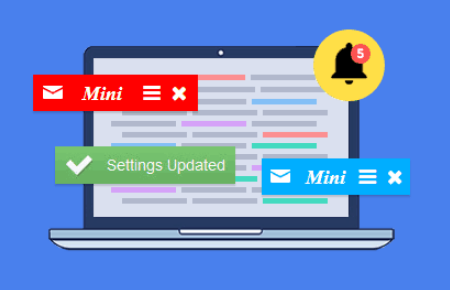
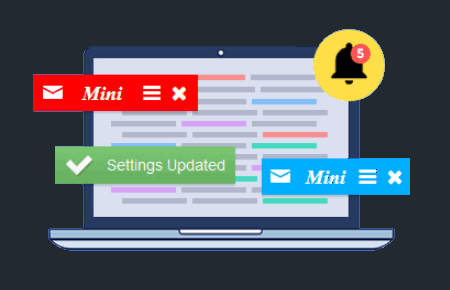
update twitter card image

diff --git a/dist/docs.d44b716632d6de121a51.css b/dist/docs.d44b716632d6de121a51.css
@@ -1,0 +1,1 @@
+/*! normalize.css v8.0.1 | MIT License | github.com/necolas/normalize.css */html{line-height:1.15;-webkit-text-size-adjust:100%}body{margin:0}main{display:block}h1{font-size:2em;margin:.67em 0}pre{font-family:monospace,monospace;font-size:1em}a{background-color:transparent}strong{font-weight:bolder}code{font-family:monospace,monospace;font-size:1em}sup{font-size:75%;line-height:0;position:relative;vertical-align:baseline}sup{top:-.5em}img{border-style:none}[type=button],[type=reset],[type=submit]{-webkit-appearance:button}[type=button]::-moz-focus-inner,[type=reset]::-moz-focus-inner,[type=submit]::-moz-focus-inner{border-style:none;padding:0}[type=button]:-moz-focusring,[type=reset]:-moz-focusring,[type=submit]:-moz-focusring{outline:1px dotted ButtonText}[type=checkbox],[type=radio]{box-sizing:border-box;padding:0}[type=number]::-webkit-inner-spin-button,[type=number]::-webkit-outer-spin-button{height:auto}[type=search]{-webkit-appearance:textfield;outline-offset:-2px}[type=search]::-webkit-search-decoration{-webkit-appearance:none}::-webkit-file-upload-button{-webkit-appearance:button;font:inherit}[hidden]{display:none}blockquote,figure,h1,h2,p,pre{margin:0}ul{margin:0;padding:0}ul{list-style:none}html{font-family:system-ui,-apple-system,BlinkMacSystemFont,Segoe UI,Roboto,Helvetica Neue,Arial,Noto Sans,sans-serif,Apple Color Emoji,Segoe UI Emoji,Segoe UI Symbol,Noto Color Emoji;line-height:1.5}*,:after,:before{box-sizing:border-box;border:0 solid #dae1e7}img{border-style:solid}[role=button]{cursor:pointer}h1,h2{font-size:inherit;font-weight:inherit}a{color:inherit;text-decoration:inherit}code,pre{font-family:Menlo,Monaco,Consolas,Liberation Mono,Courier New,monospace}img,svg{display:block;vertical-align:middle}img{max-width:100%;height:auto}.space-x-2>:not(template)~:not(template){--space-x-reverse:0;margin-right:calc(0.5rem*var(--space-x-reverse));margin-left:calc(0.5rem*(1 - var(--space-x-reverse)))}.space-y-3>:not(template)~:not(template){--space-y-reverse:0;margin-top:calc(0.75rem*(1 - var(--space-y-reverse)));margin-bottom:calc(0.75rem*var(--space-y-reverse))}.bg-black{--bg-opacity:1;background-color:#22292f;background-color:rgba(34,41,47,var(--bg-opacity))}.bg-white{--bg-opacity:1;background-color:#fff;background-color:rgba(255,255,255,var(--bg-opacity))}.bg-red{--bg-opacity:1;background-color:#307378;background-color:rgba(48,115,120,var(--bg-opacity))}.bg-grey-lighter{--bg-opacity:1;background-color:#f1f5f8;background-color:rgba(241,245,248,var(--bg-opacity))}.bg-grey-lightest{--bg-opacity:1;background-color:#f8fafc;background-color:rgba(248,250,252,var(--bg-opacity))}.border-transparent{border-color:transparent}.border-grey-light{--border-opacity:1;border-color:#dae1e7;border-color:rgba(218,225,231,var(--border-opacity))}.rounded{border-radius:.25rem}.rounded-full{border-radius:9999px}.rounded-t-none{border-top-left-radius:0;border-top-right-radius:0}.rounded-br{border-bottom-right-radius:.25rem}.border-2{border-width:2px}.border{border-width:1px}.border-t{border-top-width:1px}.border-b{border-bottom-width:1px}.block{display:block}.inline-block{display:inline-block}.inline{display:inline}.flex{display:flex}.hidden{display:none}.flex-row{flex-direction:row}.flex-col{flex-direction:column}.items-start{align-items:flex-start}.items-center{align-items:center}.justify-center{justify-content:center}.flex-none{flex:none}.flex-grow{flex-grow:1}.flex-shrink-0{flex-shrink:0}.font-heading{font-family:Varela Round,sans-serif}.font-normal{font-weight:400}.h-5{height:1.25rem}.h-6{height:1.5rem}.h-8{height:2rem}.h-10{height:2.5rem}.h-12{height:3rem}.h-16{height:4rem}.h-20{height:5rem}.h-full{height:100%}.text-xs{font-size:.75rem}.text-sm{font-size:.875rem}.text-lg{font-size:1.125rem}.text-xl{font-size:1.25rem}.text-3xl{font-size:1.875rem}.text-4xl{font-size:2.25rem}.leading-none{line-height:1}.leading-tight{line-height:1.25}.leading-normal{line-height:1.5}.leading-relaxed{line-height:1.625}.leading-loose{line-height:2}.leading-very-loose{line-height:3.5}.list-none{list-style-type:none}.my-5{margin-top:1.25rem;margin-bottom:1.25rem}.my-10{margin-top:4rem;margin-bottom:4rem}.mx-auto{margin-left:auto;margin-right:auto}.-mx-8{margin-left:-2rem;margin-right:-2rem}.mt-0{margin-top:0}.mt-1{margin-top:.25rem}.mr-1{margin-right:.25rem}.mb-1{margin-bottom:.25rem}.mr-2{margin-right:.5rem}.mb-2{margin-bottom:.5rem}.mr-3{margin-right:.75rem}.mt-4{margin-top:1rem}.mr-4{margin-right:1rem}.mb-4{margin-bottom:1rem}.mt-6{margin-top:1.5rem}.mb-6{margin-bottom:1.5rem}.mb-8{margin-bottom:2rem}.mb-10{margin-bottom:4rem}.max-w-xs{max-width:20rem}.max-w-sm{max-width:30rem}.max-w-md{max-width:40rem}.max-w-lg{max-width:44rem}.max-w-xl{max-width:60rem}.max-w-2xl{max-width:70rem}.min-h-screen{min-height:100vh}.min-w-full{min-width:100%}.opacity-50{opacity:.5}.overflow-hidden{overflow:hidden}.p-0{padding:0}.p-1{padding:.25rem}.p-2{padding:.5rem}.p-4{padding:1rem}.py-1{padding-top:.25rem;padding-bottom:.25rem}.py-2{padding-top:.5rem;padding-bottom:.5rem}.px-2{padding-left:.5rem;padding-right:.5rem}.py-4{padding-top:1rem;padding-bottom:1rem}.px-4{padding-left:1rem;padding-right:1rem}.px-8{padding-left:2rem;padding-right:2rem}.pl-0{padding-left:0}.pt-1{padding-top:.25rem}.pr-2{padding-right:.5rem}.pt-4{padding-top:1rem}.pt-10{padding-top:3rem}.pb-10{padding-bottom:3rem}.pt-12{padding-top:4rem}.fixed{position:fixed}.relative{position:relative}.top-0{top:0}.shadow{box-shadow:0 2px 4px 0 rgba(0,0,0,.1)}.fill-current{fill:currentColor}.text-center{text-align:center}.text-black{--text-opacity:1;color:#22292f;color:rgba(34,41,47,var(--text-opacity))}.text-white{--text-opacity:1;color:#fff;color:rgba(255,255,255,var(--text-opacity))}.text-red{--text-opacity:1;color:#307378;color:rgba(48,115,120,var(--text-opacity))}.text-grey-darkest{--text-opacity:1;color:#3d4852;color:rgba(61,72,82,var(--text-opacity))}.text-grey-darker{--text-opacity:1;color:#606f7b;color:rgba(96,111,123,var(--text-opacity))}.text-grey-dark{--text-opacity:1;color:#8795a1;color:rgba(135,149,161,var(--text-opacity))}.text-grey{--text-opacity:1;color:#b8c2cc;color:rgba(184,194,204,var(--text-opacity))}.hover\:text-grey:hover{--text-opacity:1;color:#b8c2cc;color:rgba(184,194,204,var(--text-opacity))}.uppercase{text-transform:uppercase}.tracking-wide{letter-spacing:.05em}.align-middle{vertical-align:middle}.w-5{width:1.25rem}.w-6{width:1.5rem}.w-8{width:2rem}.w-10{width:2.5rem}.w-12{width:3rem}.w-20{width:5rem}.w-full{width:100%}.w-screen{width:100vw}.z-10{z-index:10}@-webkit-keyframes spin{to{transform:rotate(1turn)}}@keyframes spin{to{transform:rotate(1turn)}}@-webkit-keyframes ping{to{transform:scale(2);opacity:0}}@keyframes ping{75%,to{transform:scale(2);opacity:0}}@keyframes pulse{50%{opacity:.5}}@-webkit-keyframes bounce{to{transform:translateY(-25%);-webkit-animation-timing-function:cubic-bezier(.8,0,1,1);animation-timing-function:cubic-bezier(.8,0,1,1)}}@keyframes bounce{0%,to{transform:translateY(-25%);-webkit-animation-timing-function:cubic-bezier(.8,0,1,1);animation-timing-function:cubic-bezier(.8,0,1,1)}50%{transform:none;-webkit-animation-timing-function:cubic-bezier(0,0,.2,1);animation-timing-function:cubic-bezier(0,0,.2,1)}}img{display:inline;vertical-align:initial}.cli-prefixed:before{content:"#"}.text-shadow{text-shadow:0 1px 1px hsla(0,0%,100%,.8)}.menu-closed\:shown{display:none}.menu-closed .menu-closed\:shown{display:inline}.menu-closed .menu-closed\:hidden{display:none}body{--text-opacity:1;color:#3d4852;color:rgba(61,72,82,var(--text-opacity));font-family:Raleway,sans-serif;font-size:15px;font-weight:400;font-stretch:100%;-webkit-font-smoothing:antialiased;font-smoothing:antialiased}*{box-sizing:border-box}a{--text-opacity:1;color:#307378;color:rgba(48,115,120,var(--text-opacity))}h1,h2{font-weight:400;font-family:Varela Round,sans-serif}a{text-decoration:none}article h1{font-size:2.25rem;line-height:1.25}article h1,article h2{--text-opacity:1;color:#307378;color:rgba(48,115,120,var(--text-opacity))}article h2{font-size:1.5rem}article p{margin-bottom:1.5rem;max-width:100%;display:block;padding:0;overflow:auto}article blockquote{padding:1rem;--bg-opacity:1;background-color:#fff;background-color:rgba(255,255,255,var(--bg-opacity));border-left-width:4px;--border-opacity:1;border-color:#606f7b;border-color:rgba(96,111,123,var(--border-opacity));margin-bottom:1rem;box-shadow:0 2px 4px 0 rgba(0,0,0,.1)}article ul{margin-bottom:1.5rem;padding-left:1.5rem}article ul{list-style:disc}article blockquote :last-child{margin-bottom:0}.github-link-icon{position:relative;top:4px}.bg-squared:before{z-index:-1;content:" ";position:absolute;top:0;left:0;height:60vh;width:100%;background:linear-gradient(-180deg,rgba(241,245,248,0),#f1f5f8),url(/static/squares.svg) repeat 50%}@media (min-width:768px){.md\:right-half-bg-black:before{left:calc(50% + 20px);right:0;border-width:1px 0 1px 1px}.md\:right-half-bg-black:before{position:absolute;display:block;content:" ";top:0;bottom:0;z-index:-1;--bg-opacity:1;background-color:#fff;background-color:rgba(255,255,255,var(--bg-opacity));--border-opacity:1;border-color:#dae1e7;border-color:rgba(218,225,231,var(--border-opacity))}}.highlight{text-align:left}@media (max-width:992px){#main-article div.highlight{margin-left:-1rem;margin-right:-1rem;border-radius:0}}@media (min-width:768px){.highlight{border-radius:.5rem}}.highlight .cp{color:#8795a1}.highlight .gt{color:#a00}.highlight .kd,.highlight .kn{color:#000;font-weight:700}.highlight .kt{color:#458;font-weight:700}.highlight .k{color:#22292f;font-weight:700}.highlight .s1{color:#d14}.highlight .s{color:#be2323}.highlight .nc{color:#307378;font-weight:700}.highlight .no{color:teal}.highlight .nf{color:#be2323;font-weight:700}.highlight .nn{color:#555}.highlight .nv{color:teal}.highlight .o{color:#000;font-weight:700}.leader .highlight{background-color:transparent;padding:1.5rem}@media (min-width:576px){.sm\:block{display:block}.sm\:hidden{display:none}}@media (min-width:768px){.md\:rounded-l-lg{border-top-left-radius:.5rem;border-bottom-left-radius:.5rem}.md\:border-l{border-left-width:1px}.md\:flex{display:flex}.md\:flex-row{flex-direction:row}.md\:items-start{align-items:flex-start}.md\:items-center{align-items:center}.md\:leading-squash{line-height:0}.md\:my-12{margin-top:4rem;margin-bottom:4rem}.md\:-mx-0{margin-left:0;margin-right:0}.md\:mt-0{margin-top:0}.md\:-mt-8{margin-top:-2rem}.md\:overflow-visible{overflow:visible}.md\:py-10{padding-top:3rem;padding-bottom:3rem}.md\:pl-4{padding-left:1rem}.md\:pb-14{padding-bottom:6rem}.md\:pt-16{padding-top:10rem}.md\:text-left{text-align:left}.md\:text-right{text-align:right}.md\:w-1\/2{width:50%}}@media (min-width:992px){.lg\:block{display:block}.lg\:flex{display:flex}.lg\:hidden{display:none}.lg\:max-w-2xl{max-width:70rem}.lg\:relative{position:relative}.lg\:w-auto{width:auto}.lg\:w-2\/5{width:40%}.lg\:w-3\/5{width:60%}}@media (min-width:1200px){.xl\:block{display:block}}@media (max-width:768px){.-md\:bg-black{--bg-opacity:1;background-color:#22292f;background-color:rgba(34,41,47,var(--bg-opacity))}}@media (min-width:576px) and (max-width:768px){.sm-md\:block{display:block}}@media (min-width:768px) and (max-width:992px){.md-lg\:block{display:block}}@media (min-width:992px) and (max-width:1200px){.lg-xl\:block{display:block}}

diff --git a/_layouts/leader.html b/_layouts/leader.html
@@ -57,8 +57,8 @@
         </p>
     </div>
 </header>
-<section class="my-10 bg-black pt-10 md:pt-16 md:pb-14 pb-10 w-full text-center md:text-left">
-    <div class="max-w-xl mx-auto md:flex relative overflow-hidden md:overflow-visible">
+<section class="my-10 bg-black pt-10 md:pt-16 md:pb-14 pb-10 w-full text-center md:text-left" style="background-color: #1C242B;">
+    <div class="max-w-xl mx-auto md:flex md:items-center relative overflow-hidden md:overflow-visible">
         <section class="md:w-1/2 px-4 max-w-md flex flex-col md:flex-row items-center md:items-start">
             <span class="h-10 w-10 mr-3 rounded-full bg-red inline-block mb-6 flex-1-0 flex-shrink-0 flex align-middle justify-center">
                 <img src="/static/icons/thumbs-up.svg" class="inline-block w-5" />
